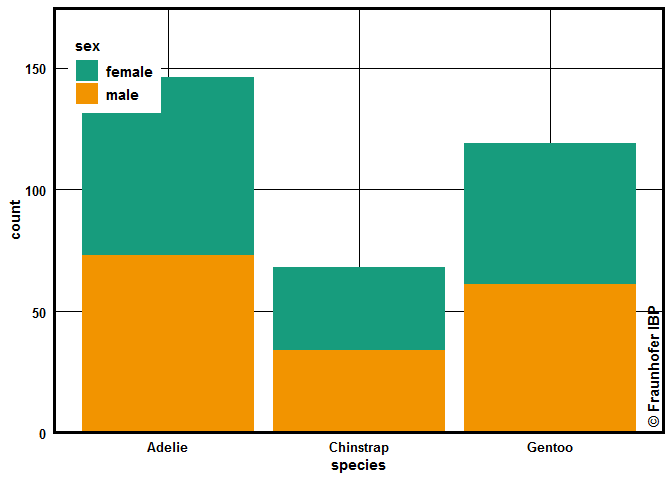
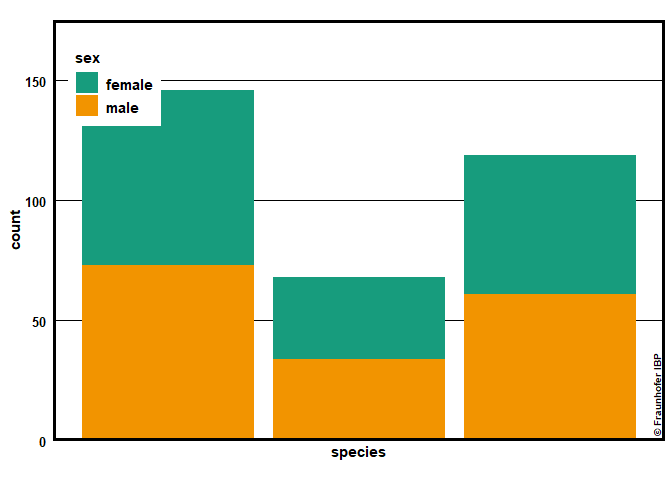
first ideas for rectangular subgrid

diff --git a/README.md b/README.md
@@ -27,6 +27,7 @@ This is a basic example which shows you how to solve a common problem:
 library(ggplot2)
 library(ggIBPplot)
 library(magrittr)
+library(scales)
 ## basic example code
 palmerpenguins::penguins %>% 
   na.exclude() %>% 
@@ -34,10 +35,14 @@ palmerpenguins::penguins %>%
 ggplot(data = ., aes(x=species)) +
   geom_bar(aes(fill=sex)) +
   theme_ibp() +
-  scale_y_continuous(expand = c(0,0), limits = c(0,175)) +
+  scale_y_continuous(expand = c(0,0), limits = c(0,175), breaks = pretty_breaks()) +
+  scale_x_discrete(breaks = scales::pretty_breaks()) + 
   scale_fill_ibp() +
   geom_fraunhofer_label() 
 }
+#> Warning in pretty.default(x, n, ...): NAs durch Umwandlung erzeugt
+
+#> Warning in pretty.default(x, n, ...): NAs durch Umwandlung erzeugt
 #> Warning in grid.Call(C_stringMetric, as.graphicsAnnot(x$label)):
 #> Zeichensatzfamilie in der Windows Zeichensatzdatenbank nicht gefunden
 #> Warning in grid.Call(C_textBounds, as.graphicsAnnot(x$label), x$x, x$y, :
@@ -57,16 +62,72 @@ palmerpenguins::penguins %>%
 ggplot(data = ., aes(x=flipper_length_mm, y = body_mass_g)) +
   geom_point(aes(colour=species, shape = sex)) +
   theme_ibp(y_pos_leg = 0.7) +
-  scale_y_continuous(expand = c(0,0)) +
+  scale_x_ibp_cont() +
+  scale_y_ibp_cont() +
   scale_colour_ibp() +
-  geom_fraunhofer_label() 
+  geom_fraunhofer_label() +
+  coord_fixed()
 }
 #> Warning in grid.Call(C_textBounds, as.graphicsAnnot(x$label), x$x, x$y, :
 #> Zeichensatzfamilie in der Windows Zeichensatzdatenbank nicht gefunden
 ```
 
-<img src="man/figures/README-example-2.png" width="100%" /> Beeinhaltet
-auch einige Farben aus der IBP CI.
+<img src="man/figures/README-example-2.png" width="100%" />
+
+Die Linien für die “Grid”-Quadrate sind abhängig von den Daten der X und
+Y Achse, sowie der Aspekt-Ratio des Plots. Standardmäßig produziert
+`scale_x_ibp_cont` 7 Linien (+ Rand), sowie `scale_y_ibp_cont` 5 Linien
+(+Rand) und besitzen dabei eine Aspekt-Ratio von 5.5/8. Je nach Range
+der Daten müssen diese Werte manual angepasst werden. Eine automatische
+Lösung wäre sicher wünschenswert, aber wohl auch aufwendiger.
+`coord_fixed` ist auch notwendig.
+
+``` r
+palmerpenguins::penguins %>% 
+  na.exclude() %>% 
+{
+ggplot(data = ., aes(x=flipper_length_mm, y = body_mass_g)) +
+  geom_point(aes(colour=species, shape = sex)) +
+  theme_ibp(y_pos_leg = 0.7, aspect = 5/7.5) +
+  scale_x_ibp_cont(limits = c(170,230)) +
+  scale_y_ibp_cont(limits = c(2500,6500)) +
+  scale_colour_ibp() +
+  geom_fraunhofer_label() +
+  coord_fixed()
+}
+#> Warning: Removed 1 rows containing missing values (geom_point).
+#> Warning in grid.Call(C_textBounds, as.graphicsAnnot(x$label), x$x, x$y, :
+#> Zeichensatzfamilie in der Windows Zeichensatzdatenbank nicht gefunden
+
+#> Warning in grid.Call(C_textBounds, as.graphicsAnnot(x$label), x$x, x$y, :
+#> Zeichensatzfamilie in der Windows Zeichensatzdatenbank nicht gefunden
+```
+
+<img src="man/figures/README-another-1.png" width="100%" />
+
+``` r
+
+
+palmerpenguins::penguins %>% 
+  na.exclude() %>% 
+{
+ggplot(data = ., aes(x=bill_length_mm, y = bill_depth_mm)) +
+  geom_point(aes(colour=species, shape = sex)) +
+  theme_ibp(y_pos_leg = 0.7, aspect = 5/9.5) +
+  scale_x_ibp_cont(limits = c(32,60), n = 8) +
+  scale_y_ibp_cont(limits = c(12.5,22)) +
+  scale_colour_ibp() +
+  geom_fraunhofer_label() +
+  coord_fixed()
+}
+#> Warning in grid.Call(C_textBounds, as.graphicsAnnot(x$label), x$x, x$y, :
+#> Zeichensatzfamilie in der Windows Zeichensatzdatenbank nicht gefunden
+```
+
+<img src="man/figures/README-another-2.png" width="100%" />
+
+Es gibt auch `scale_x_ibp_date`, allerdings ungetestet. Beeinhaltet auch
+einige Farben aus der IBP CI.
 
 ``` r
 prismatic::color(ibp_cols) %>% 
